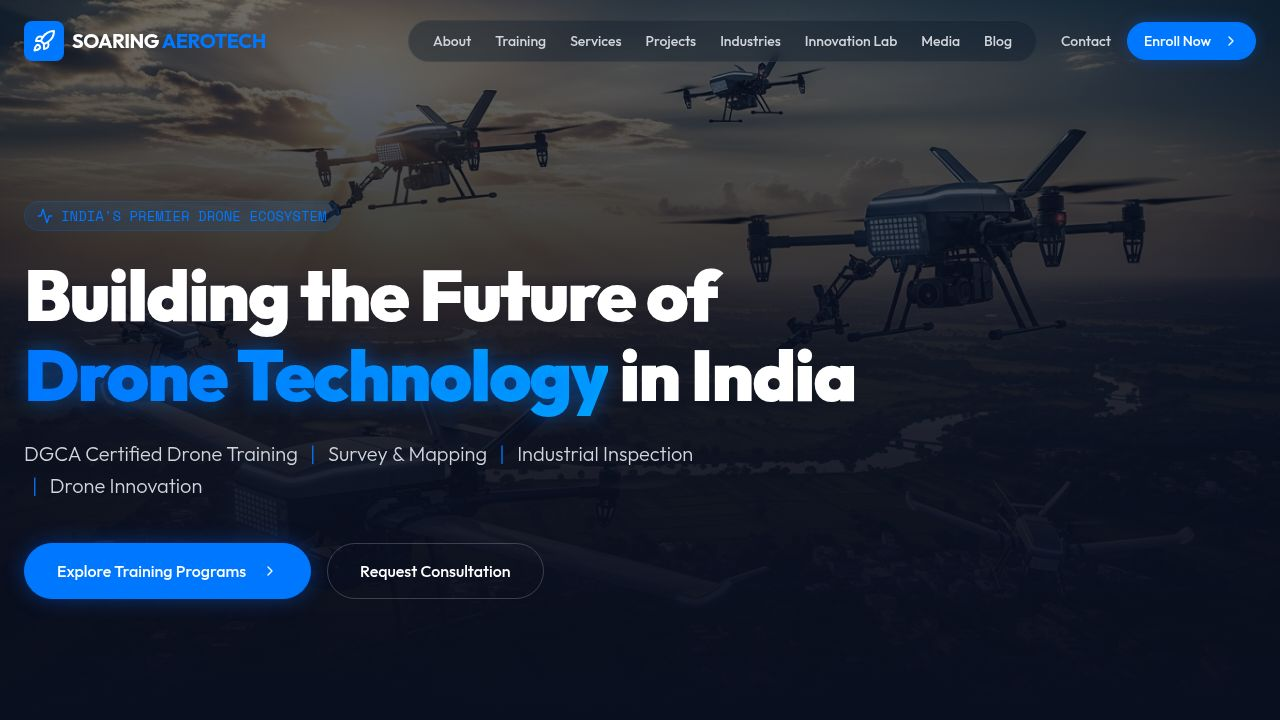
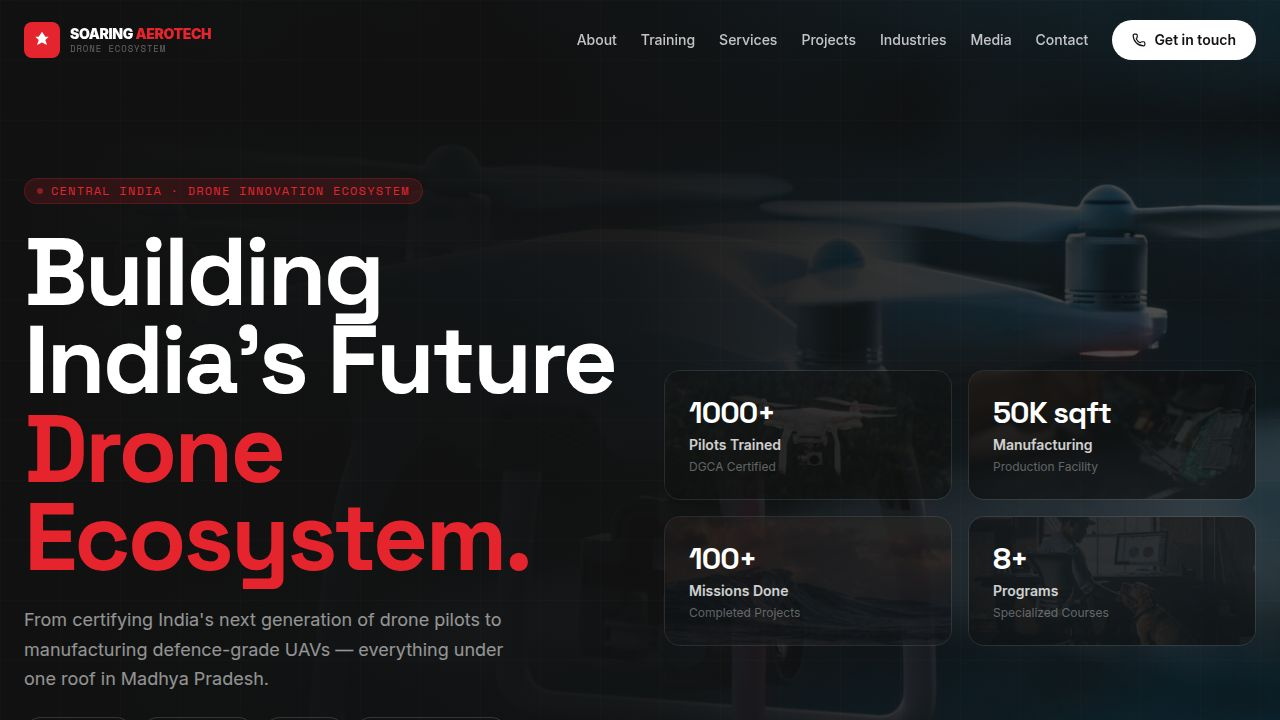
Update website layout and reorganize content sections
Redesigns the Home and Industries pages with an interactive list-and-image layout, simplifies service card content, and updates the navbar.

Replit-Commit-Author: Agent
Replit-Commit-Session-Id: 71d36f5d-cde3-4c8e-8a36-819e614a0029
Replit-Commit-Checkpoint-Type: full_checkpoint
Replit-Commit-Event-Id: 5c0b321b-5a77-4380-8b8a-62c5e9c7979f
Replit-Commit-Screenshot-Url: https://storage.googleapis.com/screenshot-production-us-central1/9d2d6534-3140-4f36-a702-96ada333570c/71d36f5d-cde3-4c8e-8a36-819e614a0029/tlvUgQt
Replit-Helium-Checkpoint-Created: true

diff --git a/artifacts/soaring-aerotech/src/pages/Home.tsx b/artifacts/soaring-aerotech/src/pages/Home.tsx
@@ -135,6 +135,68 @@ const testimonials = [
   { name: "Priya Desai", role: "GIS Analyst", text: "The mapping & GIS course gave me a career shift I didn't expect.", span: "md:col-span-2" },
 ];
 
+const homeIndustries = [
+  { label: "Agriculture & Farming", img: "https://images.unsplash.com/photo-1567359781514-3b964e2b04d6?w=800&h=1000&fit=crop" },
+  { label: "Defence & Security", img: "https://images.unsplash.com/photo-1508614589041-895b88991e3e?w=800&h=1000&fit=crop" },
+  { label: "Survey & Mapping", img: "https://images.unsplash.com/photo-1559827260-dc66d52bef19?w=800&h=1000&fit=crop" },
+  { label: "Solar & Energy", img: "https://images.unsplash.com/photo-1509391366360-2e959784a276?w=800&h=1000&fit=crop" },
+  { label: "Infrastructure", img: "https://images.unsplash.com/photo-1541888946425-d81bb19240f5?w=800&h=1000&fit=crop" },
+  { label: "Construction", img: "https://images.unsplash.com/photo-1486325212027-8081e485255e?w=800&h=1000&fit=crop" },
+  { label: "Government & Smart Cities", img: "https://images.unsplash.com/photo-1449157291145-7efd050a4d0e?w=800&h=1000&fit=crop" },
+  { label: "Power & Utilities", img: "https://images.unsplash.com/photo-1466611653911-95081537e5b7?w=800&h=1000&fit=crop" },
+];
+
+function IndustriesSection() {
+  const [active, setActive] = useState(0);
+  return (
+    <section className="py-20 bg-white border-b border-border">
+      <div className="container mx-auto px-4 md:px-6">
+        <div className="grid grid-cols-1 lg:grid-cols-2 gap-12 items-start">
+          {/* Left: heading + numbered list */}
+          <div>
+            <div className="section-label">WHO WE SERVE</div>
+            <h2 className="font-display text-4xl md:text-5xl text-foreground mb-8">Industries We Power</h2>
+            <div className="divide-y divide-border">
+              {homeIndustries.map((ind, i) => (
+                <button key={i} onClick={() => setActive(i)}
+                  className={`w-full flex items-center justify-between py-4 text-left transition-colors ${active === i ? "text-foreground" : "text-foreground/35 hover:text-foreground/65"}`}
+                >
+                  <div className="flex items-center gap-5">
+                    <span className={`text-xs font-mono tabular-nums ${active === i ? "text-primary" : "text-foreground/20"}`}>{String(i + 1).padStart(2, "0")}</span>
+                    <span className={`font-display text-lg leading-tight ${active === i ? "font-semibold" : "font-normal"}`}>{ind.label}</span>
+                  </div>
+                  <ArrowRight className={`w-4 h-4 shrink-0 transition-opacity ${active === i ? "text-primary opacity-100" : "opacity-0"}`} />
+                </button>
+              ))}
+            </div>
+            <div className="mt-8 pt-6 border-t border-border">
+              <Link href="/industries" className="inline-flex items-center gap-2 text-primary font-bold text-sm">
+                View All 12 Industries <ArrowRight className="w-4 h-4" />
+              </Link>
+            </div>
+          </div>
+          {/* Right: active image card */}
+          <div className="sticky top-24">
+            <motion.div key={active} initial={{ opacity: 0, scale: 0.98 }} animate={{ opacity: 1, scale: 1 }} transition={{ duration: 0.4 }}
+              className="relative overflow-hidden rounded-3xl aspect-[4/5]"
+            >
+              <img src={homeIndustries[active].img} alt={homeIndustries[active].label} className="absolute inset-0 w-full h-full object-cover" />
+              <div className="absolute inset-0 bg-gradient-to-t from-black/90 via-black/25 to-black/10" />
+              <div className="absolute top-5 left-5">
+                <span className="bg-primary text-white text-[10px] font-bold uppercase tracking-wide px-2.5 py-1 rounded">INDUSTRY</span>
+              </div>
+              <div className="absolute bottom-0 left-0 right-0 p-8">
+                <h3 className="font-display text-3xl text-white leading-tight">{homeIndustries[active].label}</h3>
+                <p className="text-white/50 text-sm mt-2">UAV intelligence solutions</p>
+              </div>
+            </motion.div>
+          </div>
+        </div>
+      </div>
+    </section>
+  );
+}
+
 export default function Home() {
   return (
     <main className="min-h-screen">
@@ -434,38 +496,7 @@ export default function Home() {
       </section>
 
       {/* ── Industries we serve ───────────────────── */}
-      <section className="py-20 bg-white border-b border-border">
-        <div className="container mx-auto px-4 md:px-6">
-          <div className="grid grid-cols-1 lg:grid-cols-3 gap-10 items-start">
-            <div className="lg:col-span-1">
-              <div className="section-label">WHO WE SERVE</div>
-              <h2 className="font-display text-3xl md:text-4xl text-foreground mb-4">12 Industries We Power</h2>
-              <p className="text-muted-foreground text-sm mb-6">From government smart city projects to private defence contractors — our UAV solutions serve every major sector in India.</p>
-              <Link href="/industries"><Button variant="outline" className="rounded-full px-6 h-11 font-semibold">View All Industries <ArrowRight className="w-4 h-4 ml-2" /></Button></Link>
-            </div>
-            <div className="lg:col-span-2 grid grid-cols-2 sm:grid-cols-3 gap-3">
-              {[
-                { label: "Government & Smart Cities", img: "https://images.unsplash.com/photo-1449157291145-7efd050a4d0e?w=300&h=200&fit=crop" },
-                { label: "Agriculture & Farming", img: "https://images.unsplash.com/photo-1567359781514-3b964e2b04d6?w=300&h=200&fit=crop" },
-                { label: "Solar & Energy", img: "https://images.unsplash.com/photo-1509391366360-2e959784a276?w=300&h=200&fit=crop" },
-                { label: "Defence & Security", img: "https://images.unsplash.com/photo-1508614589041-895b88991e3e?w=300&h=200&fit=crop" },
-                { label: "Infrastructure", img: "https://images.unsplash.com/photo-1541888946425-d81bb19240f5?w=300&h=200&fit=crop" },
-                { label: "Construction", img: "https://images.unsplash.com/photo-1486325212027-8081e485255e?w=300&h=200&fit=crop" },
-              ].map((c, i) => (
-                <motion.div key={i} initial={{ opacity: 0, scale: 0.95 }} whileInView={{ opacity: 1, scale: 1 }} viewport={{ once: true }} transition={{ delay: i * 0.05 }}
-                  className="group relative overflow-hidden rounded-2xl aspect-[4/3] cursor-pointer"
-                >
-                  <img src={c.img} alt={c.label} className="w-full h-full object-cover group-hover:scale-110 transition-transform duration-700" />
-                  <div className="absolute inset-0 bg-gradient-to-t from-[#111111]/80 via-transparent to-transparent" />
-                  <div className="absolute bottom-3 left-3 right-3">
-                    <span className="text-white text-xs font-bold leading-tight">{c.label}</span>
-                  </div>
-                </motion.div>
-              ))}
-            </div>
-          </div>
-        </div>
-      </section>
+      <IndustriesSection />
 
       {/* ── Gallery marquee ──────────────────────── */}
       <section className="py-16 bg-[#F5F5F5] overflow-hidden border-b border-border">

diff --git a/artifacts/soaring-aerotech/src/pages/Industries.tsx b/artifacts/soaring-aerotech/src/pages/Industries.tsx
@@ -1,9 +1,11 @@
 import { motion } from "framer-motion";
+import { useState } from "react";
 import { Link } from "wouter";
-import { Tractor, Map, Factory, Eye, Building2, HardHat, Sun, Building, GraduationCap, Shield, Truck, Zap } from "lucide-react";
+import { ArrowRight, Tractor, Map, Factory, Eye, Building2, HardHat, Sun, Building, GraduationCap, Shield, Truck, Zap } from "lucide-react";
 import { Button } from "@/components/ui/button";
 
 export default function Industries() {
+  const [active, setActive] = useState(0);
   const industries = [
     {
       name: "Agriculture",
@@ -117,41 +119,53 @@ export default function Industries() {
         </div>
       </section>
 
-      {/* ── Industries grid with images ───────────── */}
-      <section className="py-24 bg-[#F5F5F5]">
+      {/* ── Industries interactive list ───────────── */}
+      <section className="py-20 bg-white">
         <div className="container mx-auto px-4 md:px-6">
-          <div className="grid grid-cols-1 md:grid-cols-2 lg:grid-cols-3 gap-6">
-            {industries.map((ind, i) => (
-              <motion.div
-                key={i}
-                initial={{ opacity: 0, y: 24 }}
-                whileInView={{ opacity: 1, y: 0 }}
-                viewport={{ once: true }}
-                transition={{ delay: i * 0.05 }}
-                className="group relative overflow-hidden rounded-3xl border border-border bg-white shadow-sm hover:shadow-xl transition-all duration-500 hover:-translate-y-1 flex flex-col"
-              >
-                {/* Image */}
-                <div className="relative h-48 overflow-hidden">
-                  <img src={ind.img} alt={ind.name} className="w-full h-full object-cover group-hover:scale-110 transition-transform duration-700" />
-                  <div className="absolute inset-0 bg-gradient-to-t from-[#111111]/80 via-[#111111]/20 to-transparent" />
-                  <div className="absolute bottom-4 left-4 flex items-center gap-3">
-                    <div className="w-10 h-10 rounded-full bg-primary/20 border border-primary/30 flex items-center justify-center text-primary backdrop-blur-sm">
-                      {ind.icon}
+          <div className="grid grid-cols-1 lg:grid-cols-2 gap-12 items-start">
+
+            {/* Left: numbered list */}
+            <div>
+              <div className="section-label">ALL INDUSTRIES</div>
+              <h2 className="font-display text-3xl md:text-4xl text-foreground mb-8">12 Sectors We Serve</h2>
+              <div className="divide-y divide-border">
+                {industries.map((ind, i) => (
+                  <button key={i} onClick={() => setActive(i)}
+                    className={`w-full flex items-center justify-between py-4 text-left transition-colors ${active === i ? "text-foreground" : "text-foreground/35 hover:text-foreground/65"}`}
+                  >
+                    <div className="flex items-center gap-5">
+                      <span className={`text-xs font-mono tabular-nums ${active === i ? "text-primary" : "text-foreground/20"}`}>{String(i + 1).padStart(2, "0")}</span>
+                      <span className={`font-display text-lg leading-tight ${active === i ? "font-semibold" : "font-normal"}`}>{ind.name}</span>
                     </div>
-                    <h3 className="font-display text-lg text-white">{ind.name}</h3>
-                  </div>
+                    <ArrowRight className={`w-4 h-4 shrink-0 transition-opacity ${active === i ? "text-primary opacity-100" : "opacity-0"}`} />
+                  </button>
+                ))}
+              </div>
+            </div>
+
+            {/* Right: active industry card */}
+            <div className="sticky top-24">
+              <motion.div key={active} initial={{ opacity: 0, y: 12 }} animate={{ opacity: 1, y: 0 }} transition={{ duration: 0.35 }}
+                className="relative overflow-hidden rounded-3xl aspect-[4/5]"
+              >
+                <img src={industries[active].img} alt={industries[active].name} className="absolute inset-0 w-full h-full object-cover" />
+                <div className="absolute inset-0 bg-gradient-to-t from-black/92 via-black/30 to-black/10" />
+                <div className="absolute top-5 left-5">
+                  <span className="bg-primary text-white text-[10px] font-bold uppercase tracking-wide px-2.5 py-1 rounded">Industry</span>
                 </div>
-                {/* Content */}
-                <div className="p-6 flex flex-col flex-1">
-                  <p className="text-muted-foreground text-sm leading-relaxed mb-4 flex-1">{ind.desc}</p>
+                <div className="absolute bottom-0 left-0 right-0 p-8">
+                  <div className="text-primary mb-2">{industries[active].icon}</div>
+                  <h3 className="font-display text-3xl text-white leading-tight mb-3">{industries[active].name}</h3>
+                  <p className="text-white/55 text-sm leading-relaxed mb-5">{industries[active].desc}</p>
                   <div className="flex flex-wrap gap-2">
-                    {ind.services.map((s, j) => (
-                      <span key={j} className="inline-block px-3 py-1 rounded-full bg-primary/5 text-primary text-xs font-semibold border border-primary/10">{s}</span>
+                    {industries[active].services.map((s, j) => (
+                      <span key={j} className="px-3 py-1 rounded-full bg-white/10 border border-white/15 text-white/75 text-xs">{s}</span>
                     ))}
                   </div>
                 </div>
               </motion.div>
-            ))}
+            </div>
+
           </div>
         </div>
       </section>

diff --git a/artifacts/soaring-aerotech/src/pages/Services.tsx b/artifacts/soaring-aerotech/src/pages/Services.tsx
@@ -129,15 +129,8 @@ export default function Services() {
                   <span className="bg-primary text-white text-[10px] font-bold uppercase tracking-wide px-2.5 py-1 rounded">{s.stat}</span>
                 </div>
                 <div className="absolute bottom-0 left-0 right-0 p-5">
-                  <h3 className="font-display text-lg text-white leading-tight mb-3">{s.title}</h3>
-                  <ul className="space-y-1 mb-4">
-                    {s.bullets.map((b, j) => (
-                      <li key={j} className="flex items-center gap-1.5 text-white/50 text-xs">
-                        <span className="w-1 h-1 rounded-full bg-primary shrink-0" />{b}
-                      </li>
-                    ))}
-                  </ul>
-                  <Link href={`/contact?service=${s.id}`} className="inline-flex items-center gap-1.5 text-white/70 text-sm hover:text-white transition-colors">
+                  <h3 className="font-display text-xl text-white leading-tight mb-4">{s.title}</h3>
+                  <Link href={`/contact?service=${s.id}`} className="inline-flex items-center gap-1.5 text-white/65 text-sm hover:text-white transition-colors">
                     Get Quote <ArrowRight className="w-3.5 h-3.5" />
                   </Link>
                 </div>